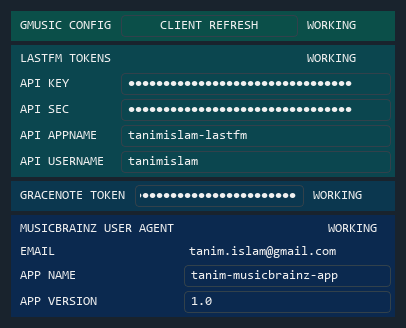
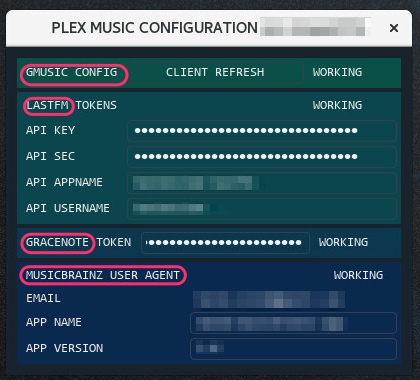
Working and comprehensive plexstuff configuration documentation.

diff --git a/docs/source/plex-config/plex_services_config.rst b/docs/source/plex-config/plex_services_config.rst
@@ -4,16 +4,16 @@ Plexstuff Services Configuration
 
 This document contains all the needed information to get started on getting set up with all the **services** you need to get up and running with Plexstuff. Here are the following **services** needed to get all the functionality here.
 
-* Identifying movies using `the Movie Database <https://www.themoviedb.org/>`_.
-* Identifying television shows and episodes using `the Television Database <https://www.thetvdb.com/>`_.
-* Uploading images for emails using the `Imgur image service <https://imgur.com/>`_.
-* Populating music metadata using either the `Gracenote API <https://developer.gracenote.com/web-api>`_ or the `LastFM API <https://www.last.fm/api/>`_.
-* Using the `Jackett proxy server <https://github.com/Jackett/Jackett>`_ to consolidate torrent searches among 20-30 public torrent trackers (such as `Torrentz2 <https://torrentz2.eu/>`_, `RARBG <http://rarbg.to/index70.php>`_, `Kickass Torrents <https://en.wikipedia.org/wiki/KickassTorrents>`_, and `The Pirate Bay <https://thepiratebay.org/>`_) through a single search API and service without `CAPTCHAs <https://en.wikipedia.org/wiki/CAPTCHA>`_ and other usability restrictions.
+* Identifying movies using `the Movie Database <https://www.themoviedb.org>`_.
+* Identifying television shows and episodes using `the Television Database <https://www.thetvdb.com>`_.
+* Uploading images for emails using the `Imgur image service <https://imgur.com>`_.
+* Populating music metadata using either the `Gracenote API <https://developer.gracenote.com/web-api>`_ or the `LastFM API <https://www.last.fm/api>`_.
+* Using the `Jackett proxy server <https://github.com/Jackett/Jackett>`_ to consolidate torrent searches among 20-30 public torrent trackers (such as `Torrentz2 <https://torrentz2.eu>`_, `RARBG <http://rarbg.to/index70.php>`_, `Kickass Torrents <https://en.wikipedia.org/wiki/KickassTorrents>`_, and `The Pirate Bay <https://thepiratebay.org>`_) through a single search API and service without `CAPTCHAs <https://en.wikipedia.org/wiki/CAPTCHA>`_ and other usability restrictions.
 * A bevy of Google services to do the following.
-  1. Sending out emails to your Plex users, using the `GMail API <https://developers.google.com/gmail/api/>`_, and identifying them from your Google address book using the `Google Contacts API <https://developers.google.com/contacts/v3/>`_.
-  2. Identifying songs on `YouTube <https://www.youtube.com>`_ using the `YouTube API <https://developers.google.com/youtube/v3/>`_.
-  3. Access to Google spreadsheets using the `Google Sheets API <https://developers.google.com/sheets/api/>`_.
-  4. Upload your music to your `Google Play Music <https://play.google.com/store/music?hl=en>`_ account using the `unofficial Google Music API <https://unofficial-google-music-api.readthedocs.io/en/latest/>`_.
+  1. Sending out emails to your Plex users, using the `GMail API <https://developers.google.com/gmail/api>`_, and identifying them from your Google address book using the `Google Contacts API <https://developers.google.com/contacts/v3>`_.
+  2. Identifying songs on `YouTube <https://www.youtube.com>`_ using the `YouTube API <https://developers.google.com/youtube/v3>`_.
+  3. Access to Google spreadsheets using the `Google Sheets API <https://developers.google.com/sheets/api>`_.
+  4. Upload your music to your `Google Play Music <https://play.google.com/store/music?hl=en>`_ account using the `unofficial Google Music API <https://unofficial-google-music-api.readthedocs.io/en/latest>`_.
 
 The document is organized into the following sections.
 
@@ -35,11 +35,15 @@ The TVDB API registration is more involved and (currently, as of 2 July 2019) no
 
 1. Log in or register (if you don't have an account) onto the television database `login page <https://www.thetvdb.com/login>`_. Here is a screen shot.
 
+.. _tmdb_step01_login:
+
 .. figure:: plex-config-services-figures/tmdb_step01_login.png
   :width: 100%
   :align: center
 
 2. Select the **API ACCESS** sub menu option in the right most menu option, which is your TVDB username, **<USERNAME> → API ACCESS**. Here is a screen shot.
+
+.. _tmdb_step02_apiselect:
 
 .. figure:: plex-config-services-figures/tmdb_step02_apiselect.png
   :width: 100%
@@ -47,11 +51,15 @@ The TVDB API registration is more involved and (currently, as of 2 July 2019) no
 
 3. This will send you to the API keys web page for your account. On the top, you will see two labels showing your **username**, and an **unique ID** that the TVDB asigns to you. In the middle section is a table showing the API keys you have created, if any. Each row is a project you have created that the TVDB uses to grant you API access. Each project has an *API key*, the *project name*, and *project website*. A hopefully illuminating screen shot is shown below.
 
+.. _tmdb_step03_apikeys_generated:
+
 .. figure:: plex-config-services-figures/tmdb_step03_apikeys_generated.png
   :width: 100%
   :align: center
 
 4. Generate an API key by defining a *project name*, *project website*, and then click on the *Generate API key* button. Here is a screen shot.
+
+.. _tmdb_step04_apikeys_generate:
 
 .. figure:: plex-config-services-figures/tmdb_step04_apikeys_generate.png
   :width: 100%
@@ -83,17 +91,23 @@ The instructions for the LastFM API registration start `here <lastfm_intro_>`_. 
 
 1. On the `API intro page <lastfm_intro_>`_, click on the  the *Add API account* link. Here is a screen shot.
 
+.. _lastfm_step01_addapiaccount:
+
 .. figure:: plex-config-services-figures/lastfm_step01_addapiaccount.png
   :width: 100%
   :align: center
 
 2. You will land on the `LastFM API creation page <lastfm_create_>`_. Fill in the forms for *Application name*, *Application description*, and *Application homepage*. Leave *Callback URL* empty because it is optional. Click on the *Submit* button once done. Here is a screen shot.
 
+.. _lastfm_step02_registerapp:
+
 .. figure:: plex-config-services-figures/lastfm_step02_registerapp.png
   :width: 100%
   :align: center
 
 If everything has worked out, after clicking *Submit* you will see the *Application name*, *API key*, *Shared secret*, and *Registered to* fields. Record this information. Here is a screen shot.
+
+.. _lastfm_step03_success:
 
 .. figure:: plex-config-services-figures/lastfm_step03_success.png
   :width: 100%
@@ -107,6 +121,8 @@ The Jackett Server
 `Jackett <https://github.com/Jackett/Jackett>`_ is a relatively successful proxy server that consolidates the torrent search from a large number of public, private, and semi-private torrent trackers and services into a single search user interface and API. It is used as the torrent searching back end for higher level media automated downloaders/maintainers such as `Sonarr <https://sonarr.tv/>`_, `Sickrage <https://www.sickrage.ca/>`_, `Radarr <https://radarr.video/>`_, `Lidarr <https://lidarr.audio/>`_, `Couchpotato <https://couchpota.to/>`_, and yet many others that I have not included.
 
 Plexstuff needs the main URL prefix of the Jackett server, and the Jackett API key, in order to use Jackett programmatically to search for movie and television torrents. The URL prefix is the part of the Jackett Web UI page before the ``UI/dashboard`` in the address. The API key is clearly shown and can be copied.
+
+.. _jackett_step01_webui:
 
 .. figure:: plex-config-services-figures/jackett_step01_webui.png
   :width: 100%
@@ -136,6 +152,8 @@ Since these are all Google services, a single tool sets all of them up given a s
   :align: center
 
 3. A browser window in your default internet browser will launch, asking you to authorize access to a Google account. Here is the first screen shot.
+
+.. _google_step03_authorizeaccount:
 
 .. figure:: plex-config-services-figures/google_step03_authorizeaccount.png
   :width: 100%

diff --git a/docs/source/plex-config/plex_config_gui_usage.rst b/docs/source/plex-config/plex_config_gui_usage.rst
@@ -5,3 +5,87 @@ Consolidating Plexstuff Configuration With ``plex_config_gui.py``
 Although ``plex_config_gui.py`` is part of ``plexcore``, and naturally lives in :numref:`Plexstuff Core Functionality`, I suggest you use this configuration tool to naturally consolidate the Plexstuff services and settings. The final configuration data will live in an `sqlite version 3 <https://en.wikipedia.org/wiki/SQLite>`_ database that is located in ``~/.local/plexstuff/app.db`` and is readable only by the user (and root).
 
 Some of the ``plex_config_gui.py`` screenshots are found in :numref:`Summary of Setting Up Google Credentials` (specifically :numref:`google_step01_credentials`, :numref:`google_step02_refreshcredentials`, and :numref:`google_step04_oauthtokenstring`) and in :numref:`Plexstuff Settings Configuration` (specifically :numref:`login_step01_login` and :numref:`login_step02_settings`).
+
+As described in :numref:`Plexstuff Services Configuration` and :numref:`Plexstuff Settings Configuration`, ```plex_config_gui.py`` start with the initial dialog widget of three sets of services and settings organized into three rows: *LOGIN*, *CREDENTIALS*, and *MUSIC*. The second column shows the number of services for each service set. The third column shows that number of services that are *working*. A screen shot illuminates this.
+
+.. _plex_config_gui_serviceswidget:
+
+.. figure:: plex-config-gui-figures/plex_config_gui_serviceswidget.png
+  :width: 100%
+  :align: center
+
+The document is organized into these three sections.
+
+* :ref:`Login Services` describes the dialog window that sets the login services.
+* :ref:`Credentials Services` describes the dialog window that sets the credentials.
+* :ref:`Music Services` describes the dialog window that applies the settings for music services.
+
+Login Services
+--------------
+
+As described in :numref:`Plexstuff Settings Configuration`, right click on the *LOGIN* row in the main widget to launch the *PLEX LOGIN CONFIGURATION* widget. The relevant screen shot, :ref:`login window <login_step01_login>`, is shown below.
+
+.. figure:: plex-config-settings-figures/login_step01_login.png
+  :width: 100%
+  :align: center
+
+The *PLEX LOGIN CONFIGURATION* widget is organized into four services, each organized into differently colored sub-widgets. The top row of each widget gives the name of the service, and its status (working or not working). The login widget controls settings for four services:
+
+* *PLEXLOGIN*: the username and password for your Plex_ account.
+* *DELUGE*: necessary settings to access your `Deluge torrent server <Deluge_>`_.
+* *JACKETT*: the URL and API key for your `Jackett torrent searching server <Jackett_>`_.
+* *RSYNC*: settings used to securely copy downloaded movies and TV shows from a remote server to the Plex_ server you control.
+
+Here is a screen shot.
+
+.. figure:: plex-config-gui-figures/plex_login_mainfigure.png
+  :width: 100%
+  :align: center
+
+Use your Plex_ email and password for *PLEXLOGIN*, as described in :numref:`Credentials for Plex Account`. Set up at least your Deluge server according to :numref:`Seedhost Services Setup`. Set up *JACKETT* as described in :numref:`The Jackett Server`, and more conveniently using a Jackett server provided by Seedhost (see :numref:`Seedhost Services Setup` for more details). Finally, apply *RSYNC* settings according to :numref:`Local and Remote (Seedhost) SSH Setup`.
+
+Credentials Services
+----------------------------
+
+As described in :numref:`Summary of Setting Up Google Credentials`, right click on the *CREDENTIALS* row in the main widget to launch the *PLEX CREDENTIALS CONFIGURATION* widget. The relevant screen shot, :ref:`credentials window <google_step01_credentials>`, is shown below.
+
+.. figure:: plex-config-services-figures/google_step01_credentials.png
+  :width: 100%
+  :align: center
+
+The *PLEX CREDENTIALS CONFIGURATION* widget is organized into four services: the `TMDB service <https://www.themoviedb.org>`_, the `TVDB service <https://www.thetvdb.com>`_, the `Imgur image hosting service <https://imgur.com>`_, and Google's services (see :numref:`Plexstuff Services Configuration` for a list). Here is a screen shot.
+
+.. figure:: plex-config-gui-figures/plex_credentials_mainfigure.png
+  :width: 100%
+  :align: center
+
+Apply the TMDB service settings according to :numref:`The Movie Database (TMDB) API`. Apply the TVDB service settings according to :numref:`The Television Database (TVDB) API`. Apply the Imgur settings according to :numref:`The Imgur API`. Finally, follow instructions in :numref:`Summary of Setting Up Google Credentials` to set up all six of the Google and Google-related services that Plexstuff uses.
+
+Music Services
+----------------------------
+
+Right click on the *MUSIC* row in the main widget to launch the *PLEX MUSIC CONFIGURATION WIDGET*. Here is a screen shot.
+
+.. figure:: plex-config-gui-figures/plex_credentials_selectmusic.png
+  :width: 100%
+  :align: center
+
+The *PLEX MUSIC CONFIGURATION* widget is organized into four services, each organized into differently colored sub-widgets: GMUSIC (the `unofficial Google Music API service <https://unofficial-google-music-api.readthedocs.io/en/latest>`_), the `LastFM music metadata service <https://www.last.fm/api>`_, the `Gracenote music metadata service <https://developer.gracenote.com/web-api>`_, and the `MusicBrainz music metadata service <https://musicbrainz.org/>`_. Here is a screen shot.
+
+.. figure:: plex-config-gui-figures/plexmusic_mainfigure.png
+  :width: 100%
+  :align: center
+
+:numref:`Summary of Setting Up Google Credentials` describes how to set up *GMUSIC*, since the unofficial Google Play API uses Google's services infrastructure. Copy the relevant information for *LASTFM* and *GRACENOTE* according to :numref:`The Gracenote and LastFM APIs`.
+
+Public access to the MusicBrainz service requires a `valid user agent <https://musicbrainz.org/doc/XML_Web_Service/Rate_Limiting#Provide_meaningful_User-Agent_strings>`_. Plexstuff uses the `musicbrainzngs <https://python-musicbrainzngs.readthedocs.io/en/v0.6>`_ Python module to access the MusicBrainz web service. This module requires an user agent with three elements:
+
+* email address.
+* version number.
+* app version (as a string).
+
+The email address is taken from the login email for your Plex_ account. You can *probably* put nearly any non-empty string into the *APP VERSION* and *APP NAME* dialog boxes.
+
+.. _Plex: https://plex.tv
+.. _Deluge: https://en.wikipedia.org/wiki/Deluge_(software)
+.. _Jackett: https://github.com/Jackett/Jackett
